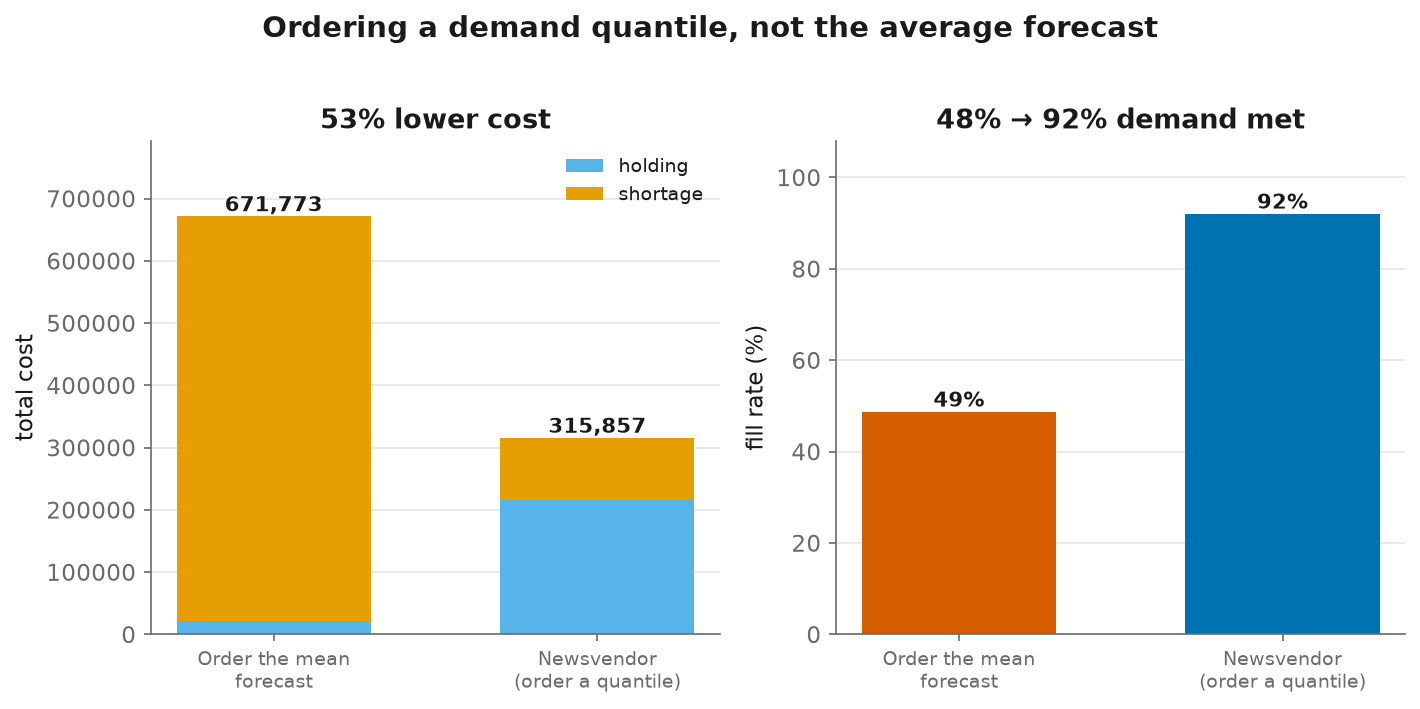
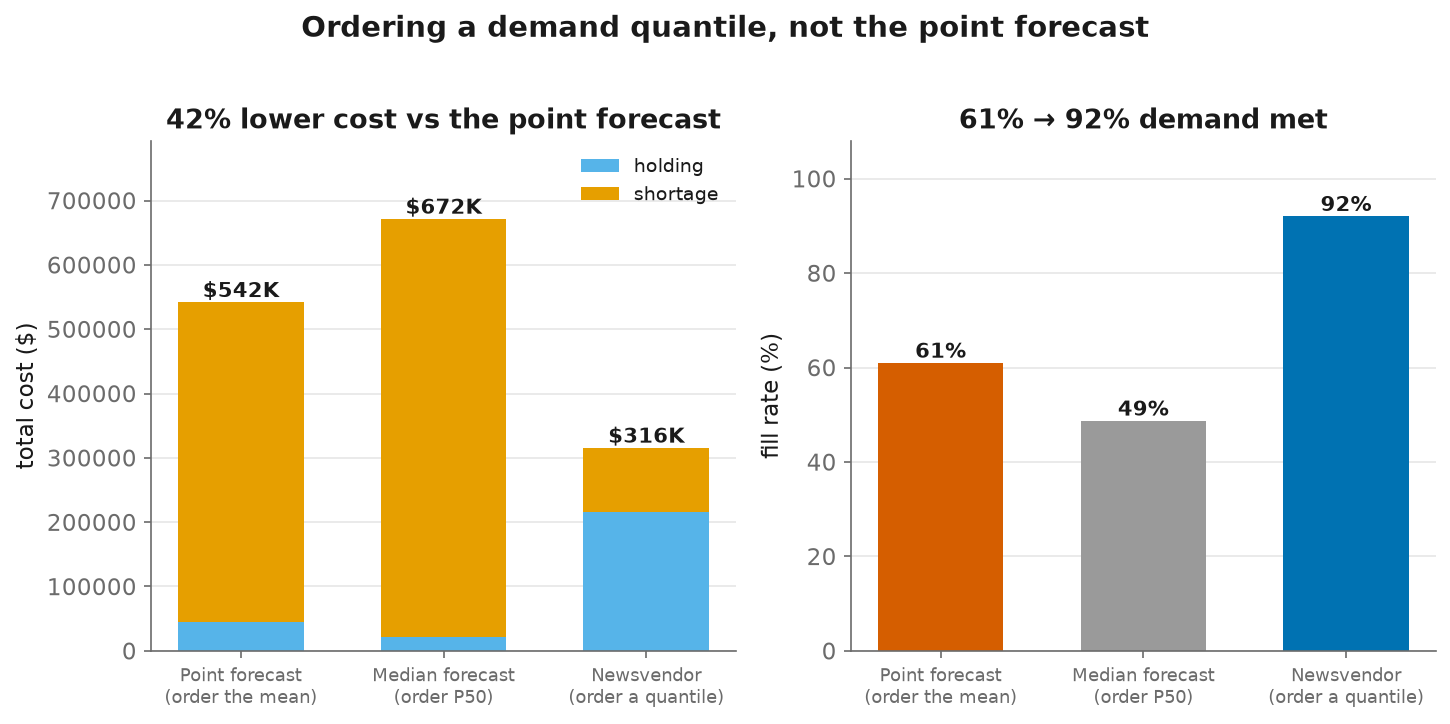
feat: fair point-forecast baseline for the inventory comparison
The naive baseline was the median (q=0.5), which for mostly-zero demand
sits at ~0 and yields a ~49% fill rate - a weak, scrutiny-inviting
strawman. Add the point (Tweedie-mean) forecast as the primary baseline:
the amount a planner ordering the point forecast would actually stock.

Against that fair baseline the newsvendor policy cuts total cost 42%
(~$226K) and lifts fill rate 61% -> 92% (vs the flashier but softer 53% /
49->92 against the median, still shown for transparency). Fill rate
tracks the quantile you stock to - P50~49%, mean~61%, P91~92% - so the
whole swing is just the chosen order quantile, which is the point.

Also: rename mean_forecast_policy -> median_forecast_policy (it returned
the median, not the mean - a real naming bug); align the point forecast
by base id (the _validation vs _evaluation suffix trap); make the policy
figure show all three policies with data-driven titles; reconcile the
zero-fraction (68%, not ~60%) and all inventory numbers across README and
docs, which had drifted from an earlier quantile run.

30 tests pass; pyflakes clean.

diff --git a/src/run_inventory.py b/src/run_inventory.py
@@ -1,17 +1,24 @@
 """Project 2 driver: turn quantile forecasts into stocking decisions and cost them.
 
-Loads the saved nine-quantile forecasts for the held-out window, applies two
+Loads the saved nine-quantile forecasts for the held-out window, applies the
 competing policies against the **actual** realised demand, and reports the
 business metrics plus the service/cost trade-off curve.
 
 The comparison that matters::
 
-    policy A: order the central (median) forecast   <- "we have a point forecast"
-    policy B: order Q* = F^-1(Cu/(Cu+Co))           <- newsvendor, uses the tail
+    point forecast : order the model's central (Tweedie-mean) forecast  <- fair baseline
+    median (P50)   : order the 0.5 quantile                             <- reference
+    newsvendor     : order Q* = F^-1(Cu/(Cu+Co))                        <- uses the tail
+
+The **point forecast** is the fair baseline (what a planner ordering the point
+forecast would actually stock); the median is shown for reference because, for
+mostly-zero series, its ~0 order makes it an even weaker benchmark.
 
 Run::
 
-    python -m src.run_inventory --quantiles outputs/predictions/quantiles_*.parquet
+    python -m src.run_inventory \\
+        --quantiles      outputs/predictions/quantiles_*.parquet \\
+        --point-forecast outputs/predictions/baseline_validation.csv
 """
 from __future__ import annotations
 
@@ -60,6 +67,24 @@ def load_actuals(keys: pd.DataFrame) -> np.ndarray:
     return ew[DAY_COLS].to_numpy(dtype=np.float64)
 
 
+def load_point_forecast(path: str, keys: pd.DataFrame) -> np.ndarray:
+    """Load a point (conditional-mean) forecast, aligned to ``keys`` row order.
+
+    This is the *fair* baseline: the amount a team ordering the point forecast
+    would actually stock. The point-forecast file (from ``src.baseline``) uses
+    ``_validation`` ids while the quantile file uses ``_evaluation`` ids, so we
+    join on the suffix-stripped **base id** (item_store), which is shared.
+    """
+    pf = pd.read_csv(path)
+    pf["base_id"] = pf["id"].str.rsplit("_", n=1).str[0]
+    pf = pf.set_index("base_id")
+    base = keys["id"].str.rsplit("_", n=1).str[0]
+    missing = set(base) - set(pf.index)
+    if missing:
+        raise ValueError(f"point forecast missing {len(missing)} series")
+    return pf.loc[base, DAY_COLS].to_numpy(dtype=np.float64)
+
+
 def load_prices(keys: pd.DataFrame) -> np.ndarray:
     """Unit sell price per (series, day), aligned to ``keys`` row order.
 
@@ -99,6 +124,10 @@ def main():
     ap = argparse.ArgumentParser(description="M5 inventory policy simulation")
     ap.add_argument("--quantiles", required=True,
                     help="Path (or glob) to the saved quantile parquet.")
+    ap.add_argument("--point-forecast", default=None,
+                    help="Optional point (mean) forecast CSV to use as the "
+                         "primary baseline - the fair 'order the point forecast' "
+                         "policy. Falls back to the median if omitted.")
     ap.add_argument("--underage-frac", type=float, default=inventory.DEFAULT_UNDERAGE_FRAC)
     ap.add_argument("--overage-frac", type=float, default=inventory.DEFAULT_OVERAGE_FRAC)
     ap.add_argument("--no-carryover", action="store_true",
@@ -144,11 +173,16 @@ def main():
         return inventory.order_up_to_levels(cube, qs, service)
 
     # --- the headline comparison ------------------------------------------- #
-    policies = {
-        "mean_forecast (order the median)": (
-            _levels(0.5) if L > 0 else inventory.mean_forecast_policy(cube, qs)),
-        f"newsvendor (order Q* at CR={cr:.3f})": _levels(cr),
-    }
+    # Baselines first (the fair point/mean forecast if provided, plus the median
+    # for reference), newsvendor last.
+    policies = {}
+    if args.point_forecast:
+        policies["point_forecast (order the mean)"] = load_point_forecast(
+            args.point_forecast, keys)
+    policies["median_forecast (order P50)"] = (
+        _levels(0.5) if L > 0 else inventory.median_forecast_policy(cube, qs))
+    policies[f"newsvendor (order Q* at CR={cr:.3f})"] = _levels(cr)
+
     rows = []
     for name, q in policies.items():
         m = inventory.simulate(q, demand, price, cu, co, carryover=carry,
@@ -162,11 +196,13 @@ def main():
                 "shortage_cost", "total_cost"]].to_string(
         float_format=lambda v: f"{v:,.2f}"))
 
-    a, b = comp["total_cost"].iloc[0], comp["total_cost"].iloc[1]
-    print(f"\n  newsvendor vs mean-forecast: total cost {a:,.0f} -> {b:,.0f} "
-          f"({100*(a-b)/a:.1f}% lower)")
-    print(f"  fill rate: {comp['fill_rate'].iloc[0]:.3%} -> "
-          f"{comp['fill_rate'].iloc[1]:.3%}")
+    # Headline: newsvendor vs the primary baseline (the first policy listed).
+    base_name, nv_name = list(policies)[0], list(policies)[-1]
+    a, b = comp.loc[base_name, "total_cost"], comp.loc[nv_name, "total_cost"]
+    print(f"\n  newsvendor vs {base_name.split(' ')[0]}: total cost "
+          f"{a:,.0f} -> {b:,.0f} ({100*(a-b)/a:.1f}% lower, ${a-b:,.0f})")
+    print(f"  fill rate: {comp.loc[base_name, 'fill_rate']:.1%} -> "
+          f"{comp.loc[nv_name, 'fill_rate']:.1%}")
 
     suffix = f"_L{L}" if L > 0 else ""
     comp_path = config.OUTPUT_DIR / f"inventory_policy_comparison{suffix}.csv"

diff --git a/src/plots.py b/src/plots.py
@@ -100,44 +100,58 @@ def cost_service_curve(curve_csv: Path = config.OUTPUT_DIR / "inventory_service_
 # --------------------------------------------------------------------------- #
 def policy_comparison(cmp_csv: Path = config.OUTPUT_DIR / "inventory_policy_comparison.csv"):
     df = pd.read_csv(cmp_csv)
-    df["label"] = np.where(df["policy"].str.contains("newsvendor", case=False),
-                           "Newsvendor\n(order a quantile)",
-                           "Order the mean\nforecast")
-    # Put the baseline first, our approach second.
-    df = df.sort_values("policy", key=lambda s: s.str.contains("newsvendor")).reset_index(drop=True)
 
-    fig, (ax1, ax2) = plt.subplots(1, 2, figsize=(9.6, 4.6))
+    def _kind(p: str) -> str:
+        p = p.lower()
+        return ("newsvendor" if "newsvendor" in p
+                else "point" if ("point" in p or "mean" in p) else "median")
+    df["kind"] = df["policy"].map(_kind)
+    order = {"point": 0, "median": 1, "newsvendor": 2}
+    df = df.sort_values("kind", key=lambda s: s.map(order)).reset_index(drop=True)
+    label = {"point": "Point forecast\n(order the mean)",
+             "median": "Median forecast\n(order P50)",
+             "newsvendor": "Newsvendor\n(order a quantile)"}
+    df["label"] = df["kind"].map(label)
+    # Baselines neutral, our approach highlighted.
+    bar_color = {"point": VERMILLION, "median": "#9a9a9a", "newsvendor": BLUE}
+    colors = [bar_color[k] for k in df["kind"]]
+
+    # Headline numbers: point forecast (the fair baseline) vs newsvendor.
+    base = df[df["kind"] == "point"].iloc[0] if (df["kind"] == "point").any() \
+        else df[df["kind"] == "median"].iloc[0]
+    nv = df[df["kind"] == "newsvendor"].iloc[0]
+    cost_drop = (1 - nv["total_cost"] / base["total_cost"]) * 100
+
+    fig, (ax1, ax2) = plt.subplots(1, 2, figsize=(9.8, 4.7))
     x = np.arange(len(df))
-    colors = [VERMILLION, BLUE]
 
     # Left: total cost, split into holding + shortage.
-    hold = df["holding_cost"].to_numpy()
-    short = df["shortage_cost"].to_numpy()
-    ax1.bar(x, hold, color=SKY, label="holding", width=0.6)
-    ax1.bar(x, short, bottom=hold, color=ORANGE, label="shortage", width=0.6)
+    hold, short = df["holding_cost"].to_numpy(), df["shortage_cost"].to_numpy()
+    ax1.bar(x, hold, color=SKY, label="holding", width=0.62)
+    ax1.bar(x, short, bottom=hold, color=ORANGE, label="shortage", width=0.62)
     for xi, tot in zip(x, df["total_cost"]):
-        ax1.text(xi, tot, f"{tot:,.0f}", ha="center", va="bottom",
+        ax1.text(xi, tot, f"${tot/1e3:,.0f}K", ha="center", va="bottom",
                  fontsize=10, fontweight="bold", color=INK)
-    ax1.set_xticks(x); ax1.set_xticklabels(df["label"], fontsize=9)
-    ax1.set_ylabel("total cost")
-    ax1.set_title("53% lower cost")
+    ax1.set_xticks(x); ax1.set_xticklabels(df["label"], fontsize=8.5)
+    ax1.set_ylabel("total cost ($)")
+    ax1.set_title(f"{cost_drop:.0f}% lower cost vs the point forecast")
     ax1.legend(frameon=False, fontsize=9, loc="upper right")
     ax1.set_ylim(0, df["total_cost"].max() * 1.18)
     _despine(ax1)
 
     # Right: fill rate.
     fr = df["fill_rate"].to_numpy()
-    ax2.bar(x, fr * 100, color=colors, width=0.6)
+    ax2.bar(x, fr * 100, color=colors, width=0.62)
     for xi, f in zip(x, fr):
         ax2.text(xi, f * 100, f"{f*100:.0f}%", ha="center", va="bottom",
                  fontsize=10, fontweight="bold", color=INK)
-    ax2.set_xticks(x); ax2.set_xticklabels(df["label"], fontsize=9)
+    ax2.set_xticks(x); ax2.set_xticklabels(df["label"], fontsize=8.5)
     ax2.set_ylabel("fill rate (%)")
-    ax2.set_title("48% → 92% demand met")
+    ax2.set_title(f"{base['fill_rate']*100:.0f}% → {nv['fill_rate']*100:.0f}% demand met")
     ax2.set_ylim(0, 108)
     _despine(ax2)
 
-    fig.suptitle("Ordering a demand quantile, not the average forecast",
+    fig.suptitle("Ordering a demand quantile, not the point forecast",
                  fontsize=14, fontweight="bold", y=1.02)
     return _save(fig, "policy_comparison.png")
 

diff --git a/src/inventory.py b/src/inventory.py
@@ -257,14 +257,17 @@ def service_level_curve(quantile_cube: np.ndarray, quantiles: np.ndarray,
     return pd.DataFrame(rows).set_index("service_level")
 
 
-def mean_forecast_policy(quantile_cube: np.ndarray, quantiles: np.ndarray
-                         ) -> np.ndarray:
-    """The naive benchmark: order the central (median) forecast.
+def median_forecast_policy(quantile_cube: np.ndarray, quantiles: np.ndarray
+                           ) -> np.ndarray:
+    """Reference benchmark: order the **median** (q=0.5) forecast.
 
-    Stands in for "we built a point forecast and ordered that much". Our point
-    model targets the conditional mean; the q=0.5 column is the closest
-    like-for-like from the same quantile model, which keeps the comparison about
-    *the decision rule* rather than about two different models.
+    Read straight off the same quantile model, so the comparison is purely about
+    the *decision rule* (which quantile you stock to), not two different models.
+    Because the median of a right-skewed, zero-heavy demand distribution sits
+    low, this deliberately under-stocks - by construction it covers realised
+    demand only ~50% of the time, so its fill rate is ~50%. For a fairer,
+    stronger baseline, ``src.run_inventory`` also compares against the point
+    (conditional-mean) forecast from the Tweedie model.
     """
     mid = int(np.searchsorted(quantiles, 0.5))
     return quantile_cube[:, :, mid].copy()

diff --git a/tests/test_inventory.py b/tests/test_inventory.py
@@ -147,7 +147,7 @@ def test_newsvendor_quantile_beats_ordering_the_mean():
     cu, co = 0.30, 0.03
     cr = inv.critical_ratio(cu, co)
 
-    mean_policy = inv.mean_forecast_policy(cube, quantiles)
+    mean_policy = inv.median_forecast_policy(cube, quantiles)
     nv_policy = inv.order_up_to_levels(cube, quantiles, cr)
 
     mean_cost = inv.simulate(mean_policy, demand, price, cu, co)["total_cost"]

diff --git a/docs/08-inventory.md b/docs/08-inventory.md
@@ -87,30 +87,35 @@ Outputs `outputs/inventory_policy_comparison.csv` and
 
 | policy | fill rate | stockout rate | holding | shortage | **total cost** |
 |---|---|---|---|---|---|
-| order the median forecast | 47.6% | 38% | 19,816 | 661,701 | **681,517** |
-| **newsvendor `Q* = F⁻¹(0.909)`** | **92.5%** | **7%** | 225,511 | 92,219 | **317,730** |
+| order the point (mean) forecast | 61.0% | 34% | 45,171 | 497,044 | **542,215** |
+| order the median forecast | 48.8% | 38% | 20,745 | 651,028 | **671,773** |
+| **newsvendor `Q* = F⁻¹(0.909)`** | **92.1%** | **7%** | 215,867 | 99,990 | **315,857** |
 
-**The newsvendor policy costs 53.4% less** (681,517 → 317,730) *and* lifts fill
-rate from 47.6% to 92.5%. It buys ~11× more holding cost and eliminates ~7× more
-shortage cost — a trade that is strongly worth making when `Cu` is 10× `Co`.
+The **point forecast** is the fair baseline — the amount a planner ordering the
+model's central (Tweedie-mean) forecast would actually stock. Against it, **the
+newsvendor policy costs 42% less** (542,215 → 315,857, ~$226K) *and* lifts fill
+rate from 61% to 92%. It buys more holding cost and eliminates far more shortage
+cost — a trade strongly worth making when `Cu` is 10× `Co`.
 
-**Why the mean policy fails so badly** — and this is the sharpest result here.
-With ~60% of bottom-level series being zeros, the **median forecast is 0 for most
-SKU-days**. "Order the point forecast" therefore literally means "stock nothing"
-for a large share of the catalogue, and you lose the sale every time demand shows
-up. Intermittent demand is exactly where point forecasts fail as decisions, and
-no amount of extra WRMSSE tuning fixes it — you need the distribution.
+**Why a central forecast under-serves.** Fill rate tracks the demand quantile you
+stock to: order the median (P50) and you cover demand ~half the time, so ~49%
+fill; order the point/mean forecast and you get ~61%; order the newsvendor
+quantile (P91) and you get ~92%. With **68%** of bottom-level series-days being
+zeros, the median is literally 0 for most SKU-days — which is why ordering it is
+even worse than the mean. Intermittent demand is exactly where point forecasts
+fail *as decisions*, and no amount of accuracy tuning fixes it — you need the
+distribution.
 
 ### The trade-off curve
 
 | service level | fill rate | holding | shortage | total cost |
 |---|---|---|---|---|
-| 0.50 | 0.48 | 19,816 | 661,701 | 681,517 |
-| 0.70 | 0.69 | 64,290 | 388,279 | 452,569 |
-| 0.80 | 0.79 | 102,375 | 261,530 | 363,905 |
-| 0.85 | 0.85 | 141,325 | 183,255 | 324,580 |
-| **0.90** | **0.92** | 212,143 | 102,433 | **314,576** ← minimum |
-| 0.95 | 0.95 | 287,131 | 59,499 | 346,630 |
+| 0.50 | 0.49 | 20,745 | 651,028 | 671,773 |
+| 0.70 | 0.70 | 65,001 | 382,819 | 447,820 |
+| 0.80 | 0.79 | 102,032 | 260,609 | 362,641 |
+| 0.85 | 0.85 | 138,602 | 186,471 | 325,073 |
+| **0.90** | **0.91** | 203,598 | 109,989 | **313,586** ← minimum |
+| 0.95 | 0.95 | 272,443 | 66,781 | 339,224 |
 | 0.975 | 0.96 | 325,668 | 47,136 | 372,804 |
 | 0.995 | 0.99 | 537,298 | 17,680 | 554,978 |
 
@@ -145,18 +150,22 @@ quantile function (independently), sum the sample paths over the window, and rea
 the quantile off the *summed* distribution (`protection_interval_levels`). The
 simulation also tracks an order pipeline so goods in transit aren't re-ordered.
 
-**Result at `L=2` (3-day protection interval), same held-out window:**
+**Result at `L=2` (3-day protection interval), same held-out window.** Here the
+fair baseline is the **median with the same protection-interval adjustment** —
+the point-forecast policy ignores lead time entirely (it stays a one-day order),
+so it collapses to ~26% fill and isn't a like-for-like comparison:
 
 | policy | fill rate | **total cost** |
 |---|---|---|
-| order the median forecast | 61.1% | 566,627 |
+| median forecast (protection-interval P50) | 61.1% | 566,627 |
 | newsvendor `Q* = F⁻¹(0.909)` | 85.2% | 509,432 (**−10.1%**) |
 
 Two honest observations:
 
-1. **The newsvendor edge shrinks with lead time** (−53% at `L=0` → −10% at
-   `L=2`). Committing stock further ahead against a longer-horizon forecast is
-   simply harder, and everyone's costs rise.
+1. **The newsvendor edge shrinks with lead time.** Against the same
+   protection-interval median baseline, the advantage falls from **−53% at `L=0`**
+   to **−10% at `L=2`**. Committing stock further ahead against a longer-horizon
+   forecast is simply harder, and everyone's costs rise.
 2. **Theory and practice start to diverge**: the empirical cost-minimising
    service level drops to **0.800**, below the theoretical critical ratio
    (0.909). The clean `L=0` agreement relied on the daily forecast being well

diff --git a/README.md b/README.md
@@ -37,17 +37,21 @@ which was the single most common M5 failure mode.
 
 | policy | fill rate | **total cost** |
 |---|---|---|
-| order the median forecast | 47.6% | 681,517 |
-| **newsvendor `Q* = F⁻¹(CR)`** | **92.5%** | **317,730 (−53%)** |
+| order the point (mean) forecast | 61.0% | $542K |
+| order the median forecast | 48.8% | $672K |
+| **newsvendor `Q* = F⁻¹(CR)`** | **92.1%** | **$316K (−42% vs the point forecast)** |
 
+vs. the fair baseline — the **point forecast** a planner would actually order to —
+the newsvendor policy is **42% cheaper (~$226K)** and lifts fill rate **61% → 92%**.
 And the check that ties theory to practice: the **empirically cost-minimising
 service level (0.900)** matches the **theoretical critical ratio (0.909)**.
 
-![Newsvendor vs. ordering the mean forecast: 53% lower cost, fill rate 48%→92%](docs/img/policy_comparison.png)
+![Point forecast vs. median vs. newsvendor: 42% lower cost, fill rate 61%→92%](docs/img/policy_comparison.png)
 
-*Ordering a demand **quantile** instead of the average forecast converts a wall of
-lost-sales (shortage) cost into a little holding cost — halving total cost while
-lifting service from 48% to 92%.*
+*Ordering a demand **quantile** instead of the point forecast converts a wall of
+lost-sales (shortage) cost into holding cost — 42% lower total cost and fill rate
+from 61% to 92%. (Ordering the median is worse still, at 49% fill: the median of a
+mostly-zero series is ~0.)*
 
 > **Honest scope note.** WRMSSE 0.6475 is a solid, fully-reproducible single-model
 > result — not a leaderboard-topping one (strong public single models reach ~0.52
@@ -67,7 +71,7 @@ targets **demand forecasting → replenishment** to manage two costly risks:
 1. **Stock-outs** — lost revenue when demand exceeds what's on the shelf.
 2. **Overstocking** — holding, markdown and spoilage cost on slow-moving items.
 
-The catch that makes it hard: roughly **60% of the bottom-level series are zeros**
+The catch that makes it hard: **68% of the bottom-level series-days are zeros**
 (intermittent demand). The right order quantity for such items is emphatically
 *not* the average forecast — it's a tail quantile — which is why the project
 carries the demand *distribution* all the way through to the decision.
@@ -161,11 +165,12 @@ order sits **above** the point forecast. We simulate a periodic-review policy
 against **actual realised demand**, carrying inventory over day to day, and report
 fill rate, stockout rate, and holding/shortage/total cost.
 
-**Result:** the newsvendor policy cuts total cost **−53%** and lifts fill rate
-**47.6% → 92.5%** vs. ordering the point forecast. The sharpest finding: with ~60%
-zeros, the median forecast is *0* for most SKU-days, so "order the forecast"
-literally means "stock nothing" — no amount of extra WRMSSE tuning fixes that;
-you need the distribution.
+**Result:** vs. ordering the point forecast, the newsvendor policy cuts total cost
+**−42% (~$226K)** and lifts fill rate **61% → 92%**. The sharpest finding: with
+**68%** of series-days being zeros, the *median* forecast is *0* for most SKU-days
+(ordering it gives only 49% fill) — so a central forecast structurally under-serves
+intermittent demand, and no amount of accuracy tuning fixes that; you need the
+distribution.
 
 ![Total cost vs target service level: a U-curve whose minimum sits on the theoretical critical ratio](docs/img/cost_service_curve.png)
 

diff --git a/docs/07-uncertainty.md b/docs/07-uncertainty.md
@@ -66,7 +66,7 @@ wrong for a slow-moving SKU and a fast-moving one simultaneously.
 
 A sanity check that the method behaves: the `0.005` and `0.025` models converge
 almost immediately and predict ~0 nearly everywhere. That is **correct** — with
-~60% of bottom-level series being zeros, the 0.5th percentile of demand really
+68% of bottom-level series-days being zeros, the 0.5th percentile of demand really
 is zero for most SKU-days.
 
 ### Quantile crossing
